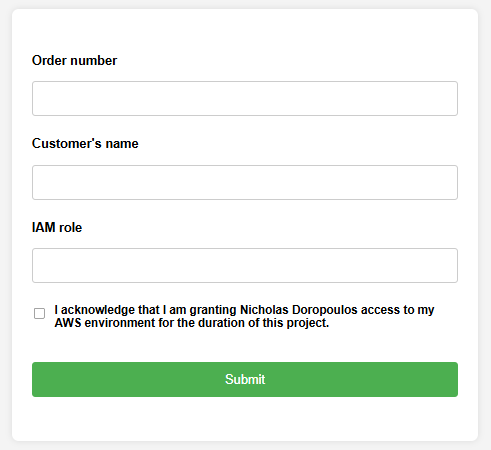
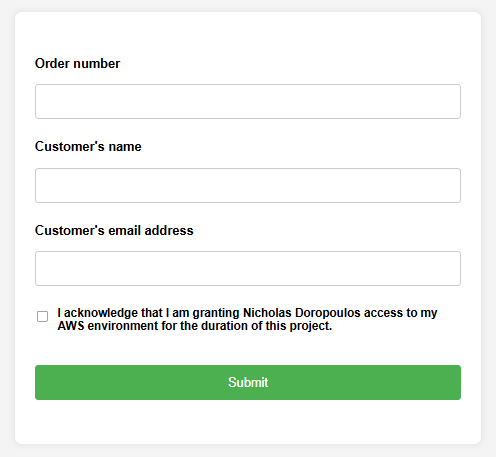
Update form and associated image

diff --git a/index.html b/index.html
@@ -16,7 +16,7 @@
         <label for="customerName">Customer's name</label>
         <input type="text" id="customerName" name="customerName" required>
 
-        <label for="customerEmail">Customer's email</label>
+        <label for="customerEmail">Customer's email address</label>
         <input type="text" id="customerEmail" name="customerEmail" required>
 
         <div class="checkbox-container">
